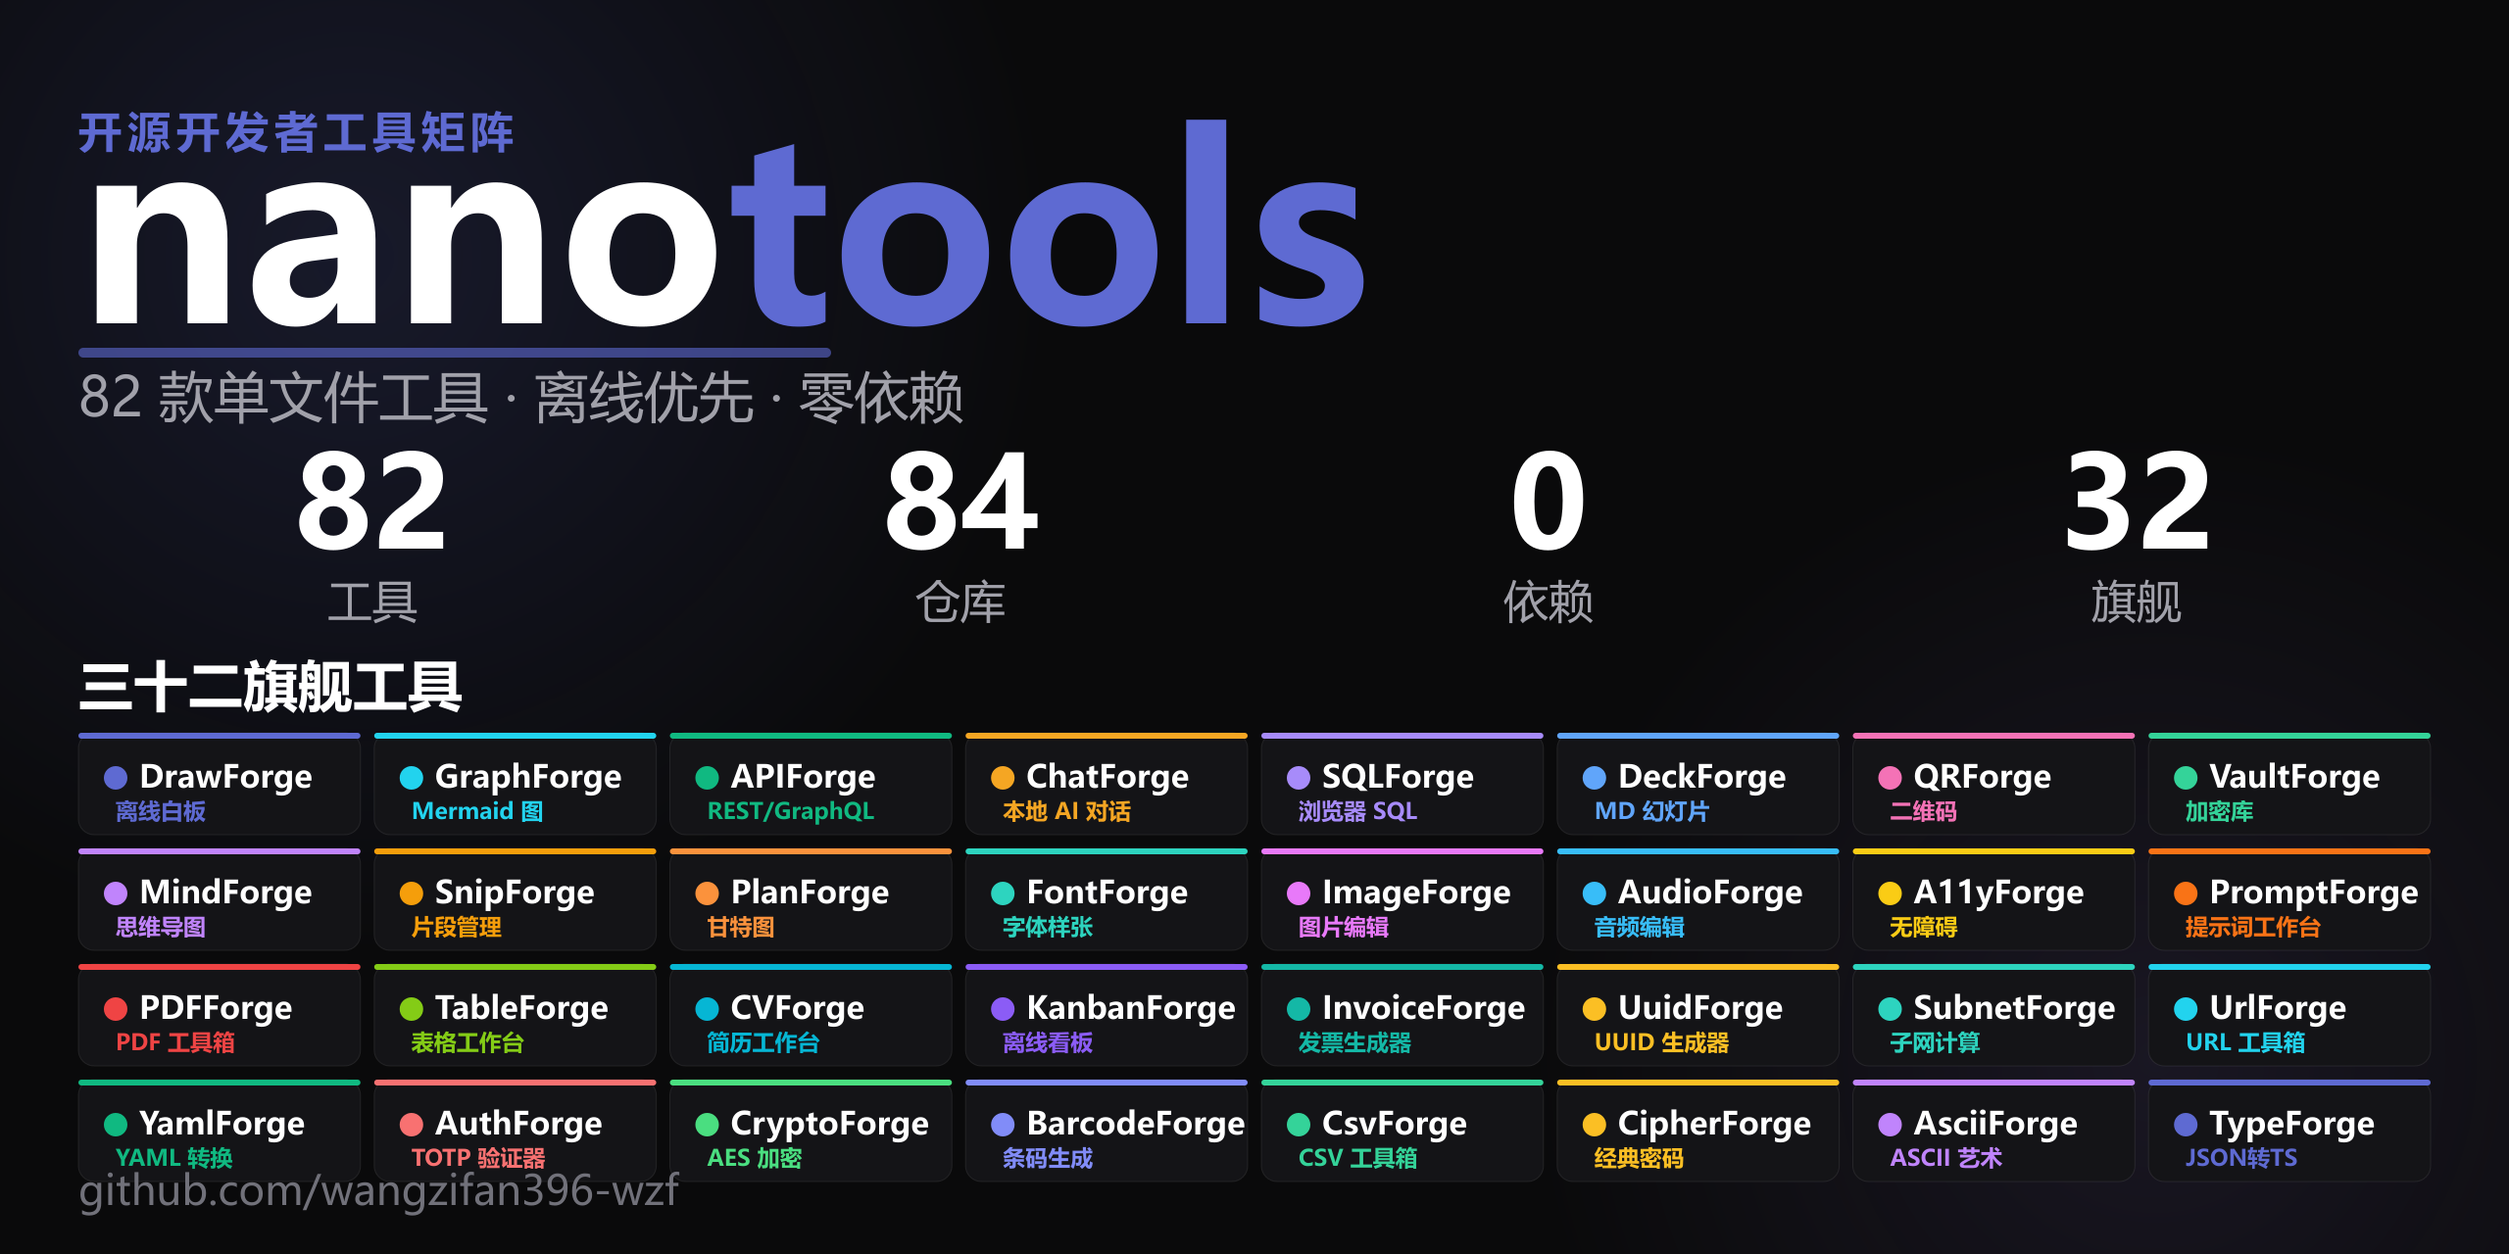
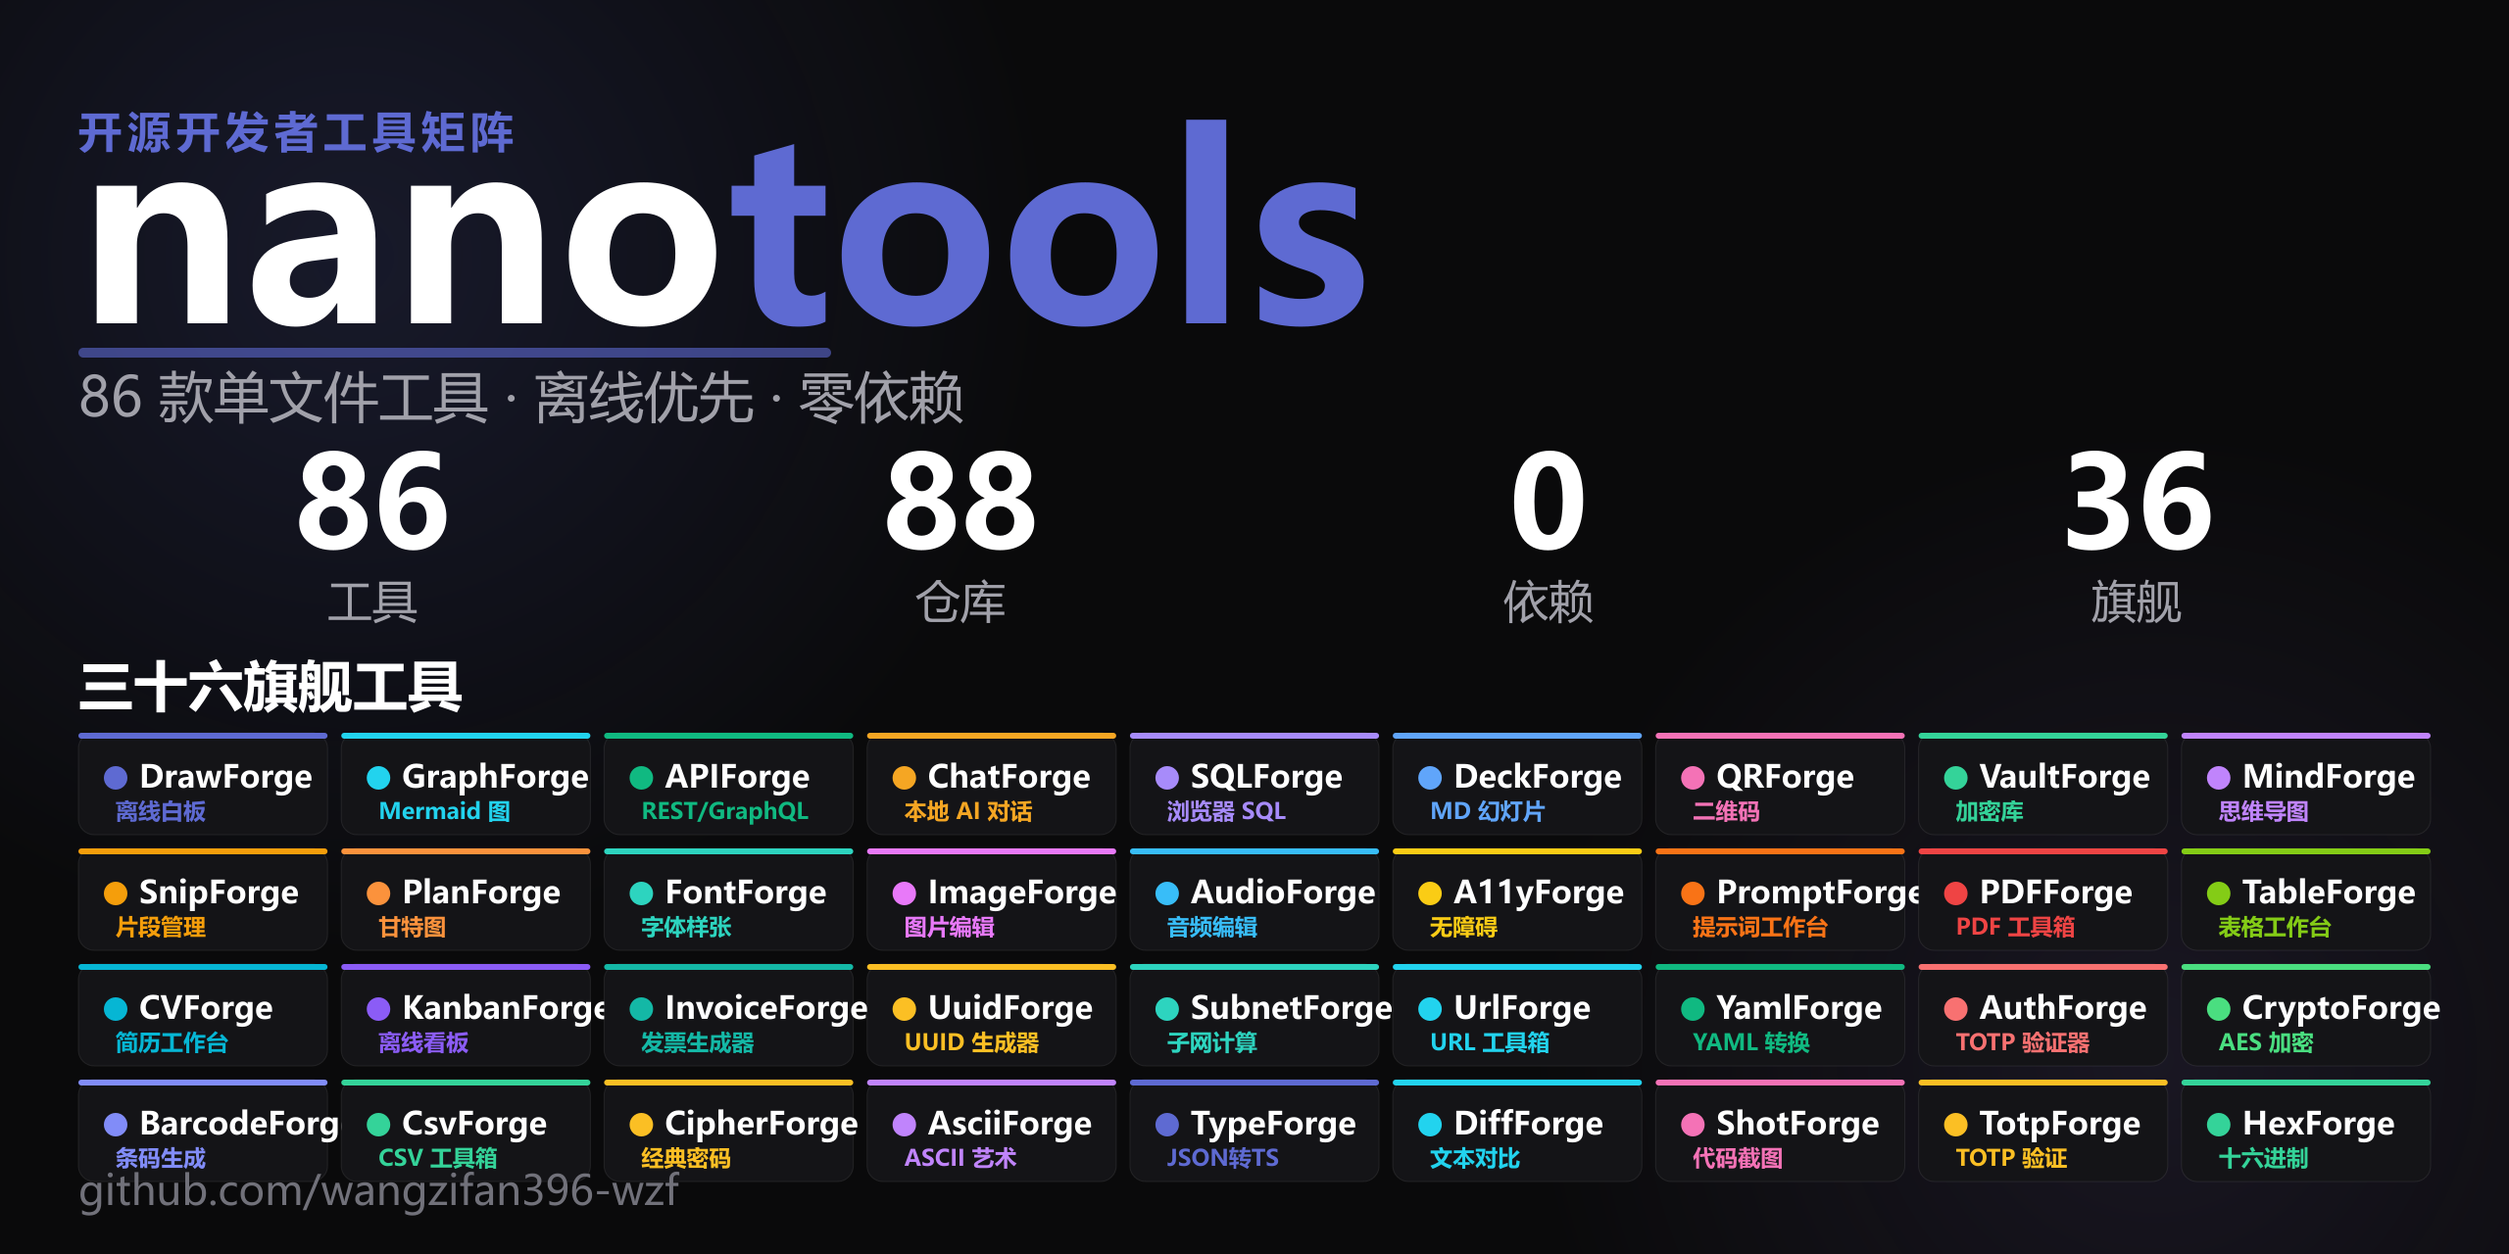
feat: batch6 — DiffForge/ShotForge/TotpForge/HexForge, 86 tools / 88 repos / 36 flags

diff --git a/index.html b/index.html
@@ -5,9 +5,9 @@
 <meta charset="UTF-8">
 <meta name="viewport" content="width=device-width, initial-scale=1.0">
 <title data-i18n="meta_title">nano-tools · 单文件零依赖工具集</title>
-<meta name="description" data-i18n="meta_desc" content="一个标签页，收纳你全部的开发者工具。82 个单文件、零依赖、本地优先的开源工具，下载即用，数据永不离机。">
+<meta name="description" data-i18n="meta_desc" content="一个标签页，收纳你全部的开发者工具。86 个单文件、零依赖、本地优先的开源工具，下载即用，数据永不离机。">
 <meta property="og:title" data-i18n="og_title" content="nano-tools · 单文件零依赖工具集">
-<meta property="og:description" data-i18n="og_desc" content="82 个单文件、零依赖、本地优先的开发者工具，下载即用，数据永不离机。">
+<meta property="og:description" data-i18n="og_desc" content="86 个单文件、零依赖、本地优先的开发者工具，下载即用，数据永不离机。">
 <meta property="og:image" content="social-preview.png">
 <meta property="og:image:width" content="1280">
 <meta property="og:image:height" content="640">
@@ -278,13 +278,13 @@
     <div class="hero-left">
       <span class="eyebrow"><span class="dot"></span><span data-i18n="hero_eyebrow">开源 · 零依赖 · 单文件</span></span>
       <h1 class="title" data-i18n-html="hero_title">一个标签页，<br>收纳你<span class="hl">全部的开发者工具</span></h1>
-      <p class="subtitle" data-i18n="hero_subtitle">82 个单文件、离线优先的开源工具，覆盖编码、转换、可视化与 AI。下载即用，数据永远留在你的浏览器里。</p>
+      <p class="subtitle" data-i18n="hero_subtitle">86 个单文件、离线优先的开源工具，覆盖编码、转换、可视化与 AI。下载即用，数据永远留在你的浏览器里。</p>
       <div class="hero-cta">
         <a class="btn primary" href="#tools" data-i18n="hero_browse">浏览工具 ↓</a>
         <a class="btn" href="https://github.com/wangzifan396-wzf" target="_blank" rel="noopener" data-i18n="hero_github">在 GitHub 查看</a>
       </div>
       <div class="hero-meta">
-        <span><b>66</b> <span data-i18n="meta_repos">开源仓库</span></span>
+        <span><b>88</b> <span data-i18n="meta_repos">开源仓库</span></span>
         <span><b>0</b> <span data-i18n="meta_deps">外部依赖</span></span>
         <span><b>100%</b> <span data-i18n="meta_local">本地运行</span></span>
       </div>
@@ -327,7 +327,7 @@
   <div class="wrap">
     <div class="sec-head reveal">
       <span class="label" data-i18n="tools_label">工具矩阵</span>
-      <h2 class="sec-title" data-i18n="tools_title">82 款精心打磨的开发者工具</h2>
+      <h2 class="sec-title" data-i18n="tools_title">86 款精心打磨的开发者工具</h2>
       <p class="sec-desc" data-i18n="tools_desc">搜索或按分类筛选，点击「在线试用」立即体验，或前往源码仓库查看实现。</p>
     </div>
     <div class="controls reveal">
@@ -385,7 +385,7 @@
 <div class="wrap">
   <div class="cta-band reveal" style="border-color:var(--acc);">
     <span class="pill ok" style="align-self:center;background:rgba(94,106,210,.16);color:#aab2f0;" data-i18n="wb_badge">★ 聚合工作台</span>
-    <h2 data-i18n="wb_title">一个标签页，收纳全部 82 款工具</h2>
+    <h2 data-i18n="wb_title">一个标签页，收纳全部 86 款工具</h2>
     <p data-i18n="wb_desc">nano-workbench：点选即在内嵌窗口运行、标签间即时切换，无需反复打开新页面。数据永不离机。</p>
     <div class="hero-cta">
       <a class="btn primary" href="https://wangzifan396-wzf.github.io/nano-workbench/" target="_blank" rel="noopener" data-i18n="wb_open">打开工作台 ↗</a>
@@ -397,7 +397,7 @@
 <div class="wrap">
   <div class="cta-band reveal">
     <h2 data-i18n="cta_title">把你下一个小工具，交给 nano-tools</h2>
-    <p data-i18n="cta_desc">84 个仓库、82 款工具，全部开源、零依赖、本地优先。</p>
+    <p data-i18n="cta_desc">88 个仓库、86 款工具，全部开源、零依赖、本地优先。</p>
     <div class="hero-cta">
       <a class="btn primary" href="#tools" data-i18n="cta_browse">开始浏览</a>
       <a class="btn" href="https://github.com/wangzifan396-wzf" target="_blank" rel="noopener">★ Star on GitHub</a>
@@ -425,16 +425,16 @@
   // 双语字典（中 / 英）。data-i18n 文本用 textContent；data-i18n-html 保留 <br>/<span> 结构；meta 改 content 属性。
   var I18N = {
     "meta_title":{zh:"nano-tools · 单文件零依赖工具集",en:"nano-tools · single-file, zero-dep tools"},
-    "meta_desc":{zh:"一个标签页，收纳你全部的开发者工具。82 个单文件、零依赖、本地优先的开源工具，下载即用，数据永不离机。",en:"One tab for all your dev tools. 82 single-file, zero-dep, local-first open-source tools. Download and use; data never leaves the browser."},
+    "meta_desc":{zh:"一个标签页，收纳你全部的开发者工具。86 个单文件、零依赖、本地优先的开源工具，下载即用，数据永不离机。",en:"One tab for all your dev tools. 86 single-file, zero-dep, local-first open-source tools. Download and use; data never leaves the browser."},
     "og_title":{zh:"nano-tools · 单文件零依赖工具集",en:"nano-tools · single-file, zero-dep tools"},
-    "og_desc":{zh:"82 个单文件、零依赖、本地优先的开发者工具，下载即用，数据永不离机。",en:"82 single-file, zero-dep, local-first dev tools. Download and use; data never leaves the browser."},
+    "og_desc":{zh:"86 个单文件、零依赖、本地优先的开发者工具，下载即用，数据永不离机。",en:"86 single-file, zero-dep, local-first dev tools. Download and use; data never leaves the browser."},
     "nav_features":{zh:"特性",en:"Features"},
     "nav_tools":{zh:"工具",en:"Tools"},
     "nav_stats":{zh:"数据",en:"Stats"},
     "nav_faq":{zh:"问答",en:"FAQ"},
     "hero_eyebrow":{zh:"开源 · 零依赖 · 单文件",en:"Open-source · Zero-dep · Single-file"},
     "hero_title":{zh:'一个标签页，<br>收纳你<span class="hl">全部的开发者工具</span>',en:'One tab, <br>for <span class="hl">all your dev tools</span>'},
-    "hero_subtitle":{zh:"82 个单文件、离线优先的开源工具，覆盖编码、转换、可视化与 AI。下载即用，数据永远留在你的浏览器里。",en:"82 single-file, offline-first open-source tools spanning encoding, conversion, visualization & AI. Download and use instantly; your data never leaves the browser."},
+    "hero_subtitle":{zh:"86 个单文件、离线优先的开源工具，覆盖编码、转换、可视化与 AI。下载即用，数据永远留在你的浏览器里。",en:"86 single-file, offline-first open-source tools spanning encoding, conversion, visualization & AI. Download and use instantly; your data never leaves the browser."},
     "hero_browse":{zh:"浏览工具 ↓",en:"Browse tools ↓"},
     "hero_github":{zh:"在 GitHub 查看",en:"View on GitHub"},
     "meta_repos":{zh:"开源仓库",en:"Open-source repos"},
@@ -450,16 +450,16 @@
     "step3_t":{zh:"单文件可携",en:"Portable single-file"},
     "step3_d":{zh:"每个工具只有一个 HTML 文件，零依赖、可随便复制分享，U 盘里也能跑。",en:"Each tool is one HTML file — zero dependencies, copy & share freely, runs from a USB stick."},
     "tools_label":{zh:"工具矩阵",en:"Tool matrix"},
-    "tools_title":{zh:"82 款精心打磨的开发者工具",en:"82 Hand-crafted Dev Tools"},
+    "tools_title":{zh:"86 款精心打磨的开发者工具",en:"86 Hand-crafted Dev Tools"},
     "tools_desc":{zh:"搜索或按分类筛选，点击「在线试用」立即体验，或前往源码仓库查看实现。",en:"Search or filter by category, hit “Live Demo” to try instantly, or visit the source repo."},
     "search_ph":{zh:"搜索工具… 试试 regex / json / 颜色 / 压缩 / 图表",en:"Search tools… try regex / json / color / compress / chart"},
     "btn_demo":{zh:"在线试用",en:"Live Demo"},
     "btn_src":{zh:"源码",en:"Source"},
     "no_result":{zh:"没有匹配的工具，换个关键词试试 🔍",en:"No matching tools — try another keyword 🔍"},
     "cta_title":{zh:"把你下一个小工具，交给 nano-tools",en:"Your next tiny tool, from nano-tools"},
-    "cta_desc":{zh:"84 个仓库、82 款工具，全部开源、零依赖、本地优先。",en:"84 repos, 82 tools. All open-source, zero-dep, local-first."},
+    "cta_desc":{zh:"88 个仓库、86 款工具，全部开源、零依赖、本地优先。",en:"88 repos, 86 tools. All open-source, zero-dep, local-first."},
     "wb_badge":{zh:"★ 聚合工作台",en:"★ Unified Workbench"},
-    "wb_title":{zh:"一个标签页，收纳全部 82 款工具",en:"All 82 tools in one tab"},
+    "wb_title":{zh:"一个标签页，收纳全部 86 款工具",en:"All 86 tools in one tab"},
     "wb_desc":{zh:"nano-workbench：点选即在内嵌窗口运行、标签间即时切换，无需反复打开新页面。数据永不离机。",en:"nano-workbench: pick a tool and run it in an embedded pane, switch tabs instantly — no more reopening pages. Data never leaves your machine."},
     "wb_open":{zh:"打开工作台 ↗",en:"Open Workbench ↗"},
     "wb_src":{zh:"查看源码",en:"View Source"},
@@ -733,7 +733,19 @@
      tags:["meta","seo","opengraph","html"]},
     {id:"UAForge", name:"UAForge", icon:"ua", cat:"网络", badge:"新",
      desc:"离线 User-Agent 解析器：浏览器 / 内核 / 系统 / 设备类型识别，含爬虫检测。",
-     tags:["user-agent","browser","parser","detect"]}
+     tags:["user-agent","browser","parser","detect"]},
+    {id:"DiffForge", name:"DiffForge", icon:"diff2", cat:"文本处理", badge:"旗舰",
+     desc:"离线文本差异对比：基于 LCS 的行级 diff + 并排视图，统计增删，内置逐字符 inline diff。",
+     tags:["diff","lcs","compare","text"]},
+    {id:"ShotForge", name:"ShotForge", icon:"shot", cat:"开发", badge:"旗舰",
+     desc:"离线代码截图生成器：轻量语法高亮 + 仿 macOS 窗口外观，一键复制 SVG / 导出 2x PNG。",
+     tags:["code","screenshot","highlight","svg"]},
+    {id:"TotpForge", name:"TotpForge", icon:"totp", cat:"编码加密", badge:"旗舰",
+     desc:"离线 TOTP 身份验证器：纯 JS HMAC-SHA1（RFC 4226/6238 验证），Base32/ASCII 密钥，实时倒计时。",
+     tags:["totp","otp","2fa","rfc6238"]},
+    {id:"HexForge", name:"HexForge", icon:"hex", cat:"编码加密", badge:"旗舰",
+     desc:"离线十六进制查看器：文本(UTF-8)/十六进制/本地文件 → xxd 格式 dump，数据不出本机。",
+     tags:["hex","dump","binary","xxd"]}
   ];
 
   // 英文文案（按 id 索引；门户双语切换用）
@@ -820,7 +832,11 @@
     DockerForge:{desc:"Offline docker run to docker-compose converter — 30+ flags supported, safe YAML quoting.", cat:"Dev Assist"},
     CurlForge:{desc:"Offline curl command builder — method / headers / body / auth, shell-safe quoting, paste-ready.", cat:"Network"},
     MetaForge:{desc:"Offline meta tag generator — base + Open Graph + Twitter Card, SEO length checks.", cat:"Dev"},
-    UAForge:{desc:"Offline User-Agent parser — browser / engine / OS / device detection, bot recognition.", cat:"Network"}
+    UAForge:{desc:"Offline User-Agent parser — browser / engine / OS / device detection, bot recognition.", cat:"Network"},
+    DiffForge:{desc:"Offline text diff — LCS line diff + side-by-side view, add/del stats, built-in character-level inline diff.", cat:"Text"},
+    ShotForge:{desc:"Offline code screenshot generator — lightweight syntax highlighting + macOS-style window, copy SVG / export 2x PNG.", cat:"Dev"},
+    TotpForge:{desc:"Offline TOTP authenticator — pure-JS HMAC-SHA1 (RFC 4226/6238 verified), Base32/ASCII secret, live countdown.", cat:"Crypto"},
+    HexForge:{desc:"Offline hex viewer — text(UTF-8) / hex / local file to xxd-style dump, data never leaves the browser.", cat:"Encoding"}
   };
   // 中文分类 -> 英文分类 映射
   var CAT_EN = {"全部":"All"};
@@ -909,7 +925,11 @@
     docker:'<rect x="3" y="11" width="4" height="4"/><rect x="8" y="11" width="4" height="4"/><rect x="13" y="11" width="4" height="4"/><rect x="8" y="6" width="4" height="4"/><path d="M2 18c3 2 14 3 20-4"/>',
     curl:'<path d="M4 17l6-5-6-5M12 19h8"/>',
     meta:'<path d="M8 6l-5 6 5 6M16 6l5 6-5 6M13 4l-2 16"/>',
-    ua:'<rect x="3" y="4" width="18" height="13" rx="2"/><path d="M8 21h8M12 17v4M8 9a4 4 0 018 0"/>'
+    ua:'<rect x="3" y="4" width="18" height="13" rx="2"/><path d="M8 21h8M12 17v4M8 9a4 4 0 018 0"/>',
+    diff2:'<rect x="3" y="4" width="8" height="16" rx="1"/><rect x="13" y="4" width="8" height="16" rx="1"/><path d="M6 9h2M6 12h2M16 9h2"/>',
+    shot:'<rect x="3" y="4" width="18" height="16" rx="2"/><path d="M3 8h18"/><circle cx="6" cy="6" r="1"/><circle cx="9" cy="6" r="1"/><path d="M7 12h6M7 15h10"/>',
+    totp:'<circle cx="8" cy="8" r="4"/><path d="M11 11l8 8M16 16l2-2M19 19l1-1"/>',
+    hex:'<rect x="4" y="4" width="16" height="16" rx="2"/><path d="M8 8h.01M12 8h.01M16 8h.01M8 12h.01M12 12h.01M16 12h.01M8 16h.01M12 16h.01M16 16h.01"/>'
   };
   function iconSvg(k){ return '<svg viewBox="0 0 24 24" fill="none" stroke="currentColor" stroke-width="1.8" stroke-linecap="round" stroke-linejoin="round">'+(ICONS[k]||"")+'</svg>'; }
 
@@ -919,7 +939,7 @@
   var $ = function(s,el){return (el||document).querySelector(s);};
   var state = {q:"", cat:"全部", flag:false, fav:false};
   var LANG = (function(){ try{return localStorage.getItem("nano-lang")||"zh";}catch(e){return "zh";} })();
-  var FLAG_IDS = {"DrawForge":1,"GraphForge":1,"APIForge":1,"ChatForge":1,"SQLForge":1,"DeckForge":1,"QRForge":1,"VaultForge":1,"MindForge":1,"SnipForge":1,"PlanForge":1,"FontForge":1,"ImageForge":1,"AudioForge":1,"A11yForge":1,"PromptForge":1,"PDFForge":1,"TableForge":1,"CVForge":1,"KanbanForge":1,"InvoiceForge":1,"UuidForge":1,"SubnetForge":1,"UrlForge":1,"YamlForge":1,"AuthForge":1,"CryptoForge":1,"BarcodeForge":1,"CsvForge":1,"CipherForge":1,"AsciiForge":1,"TypeForge":1};
+  var FLAG_IDS = {"DrawForge":1,"GraphForge":1,"APIForge":1,"ChatForge":1,"SQLForge":1,"DeckForge":1,"QRForge":1,"VaultForge":1,"MindForge":1,"SnipForge":1,"PlanForge":1,"FontForge":1,"ImageForge":1,"AudioForge":1,"A11yForge":1,"PromptForge":1,"PDFForge":1,"TableForge":1,"CVForge":1,"KanbanForge":1,"InvoiceForge":1,"UuidForge":1,"SubnetForge":1,"UrlForge":1,"YamlForge":1,"AuthForge":1,"CryptoForge":1,"BarcodeForge":1,"CsvForge":1,"CipherForge":1,"AsciiForge":1,"TypeForge":1,"DiffForge":1,"ShotForge":1,"TotpForge":1,"HexForge":1};
   var FAV_KEY = "nano-favs";
   function getFavs(){ try{return JSON.parse(localStorage.getItem(FAV_KEY)||"[]");}catch(e){return [];} }
   function setFav(id,on){ var s=getFavs(); var i=s.indexOf(id); if(on&&i<0)s.push(id); if(!on&&i>=0)s.splice(i,1); try{localStorage.setItem(FAV_KEY,JSON.stringify(s));}catch(e){} }
